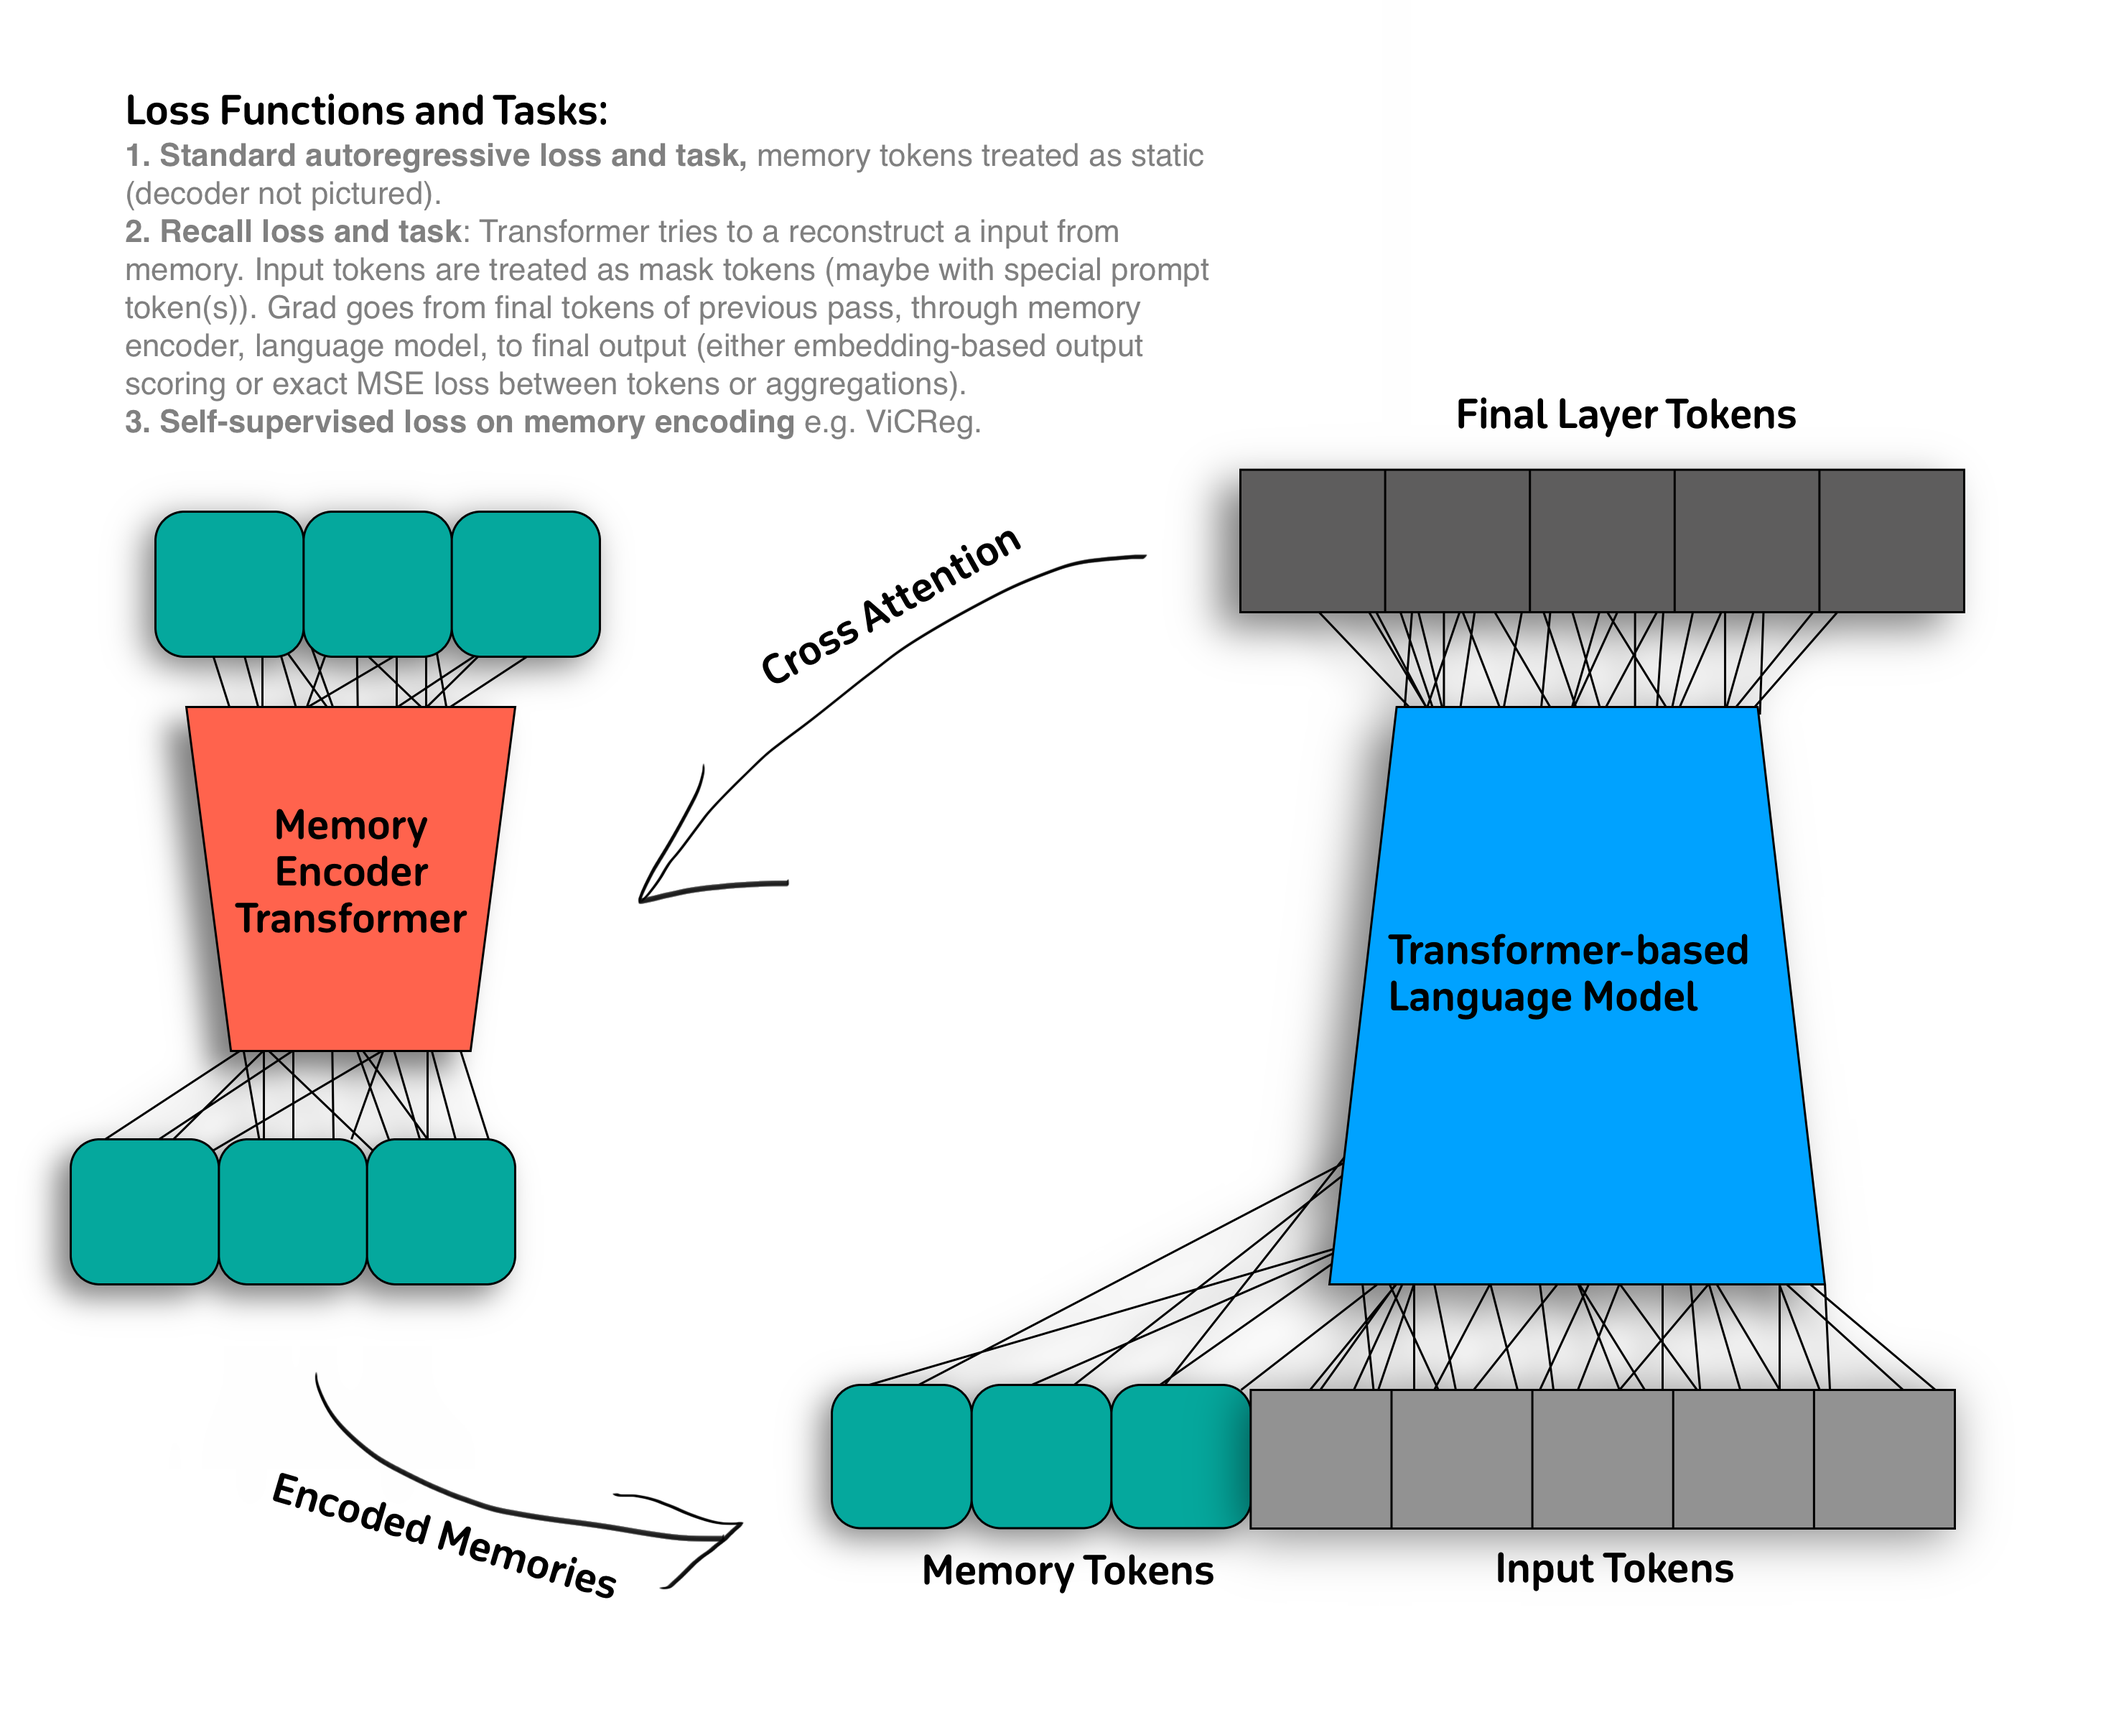
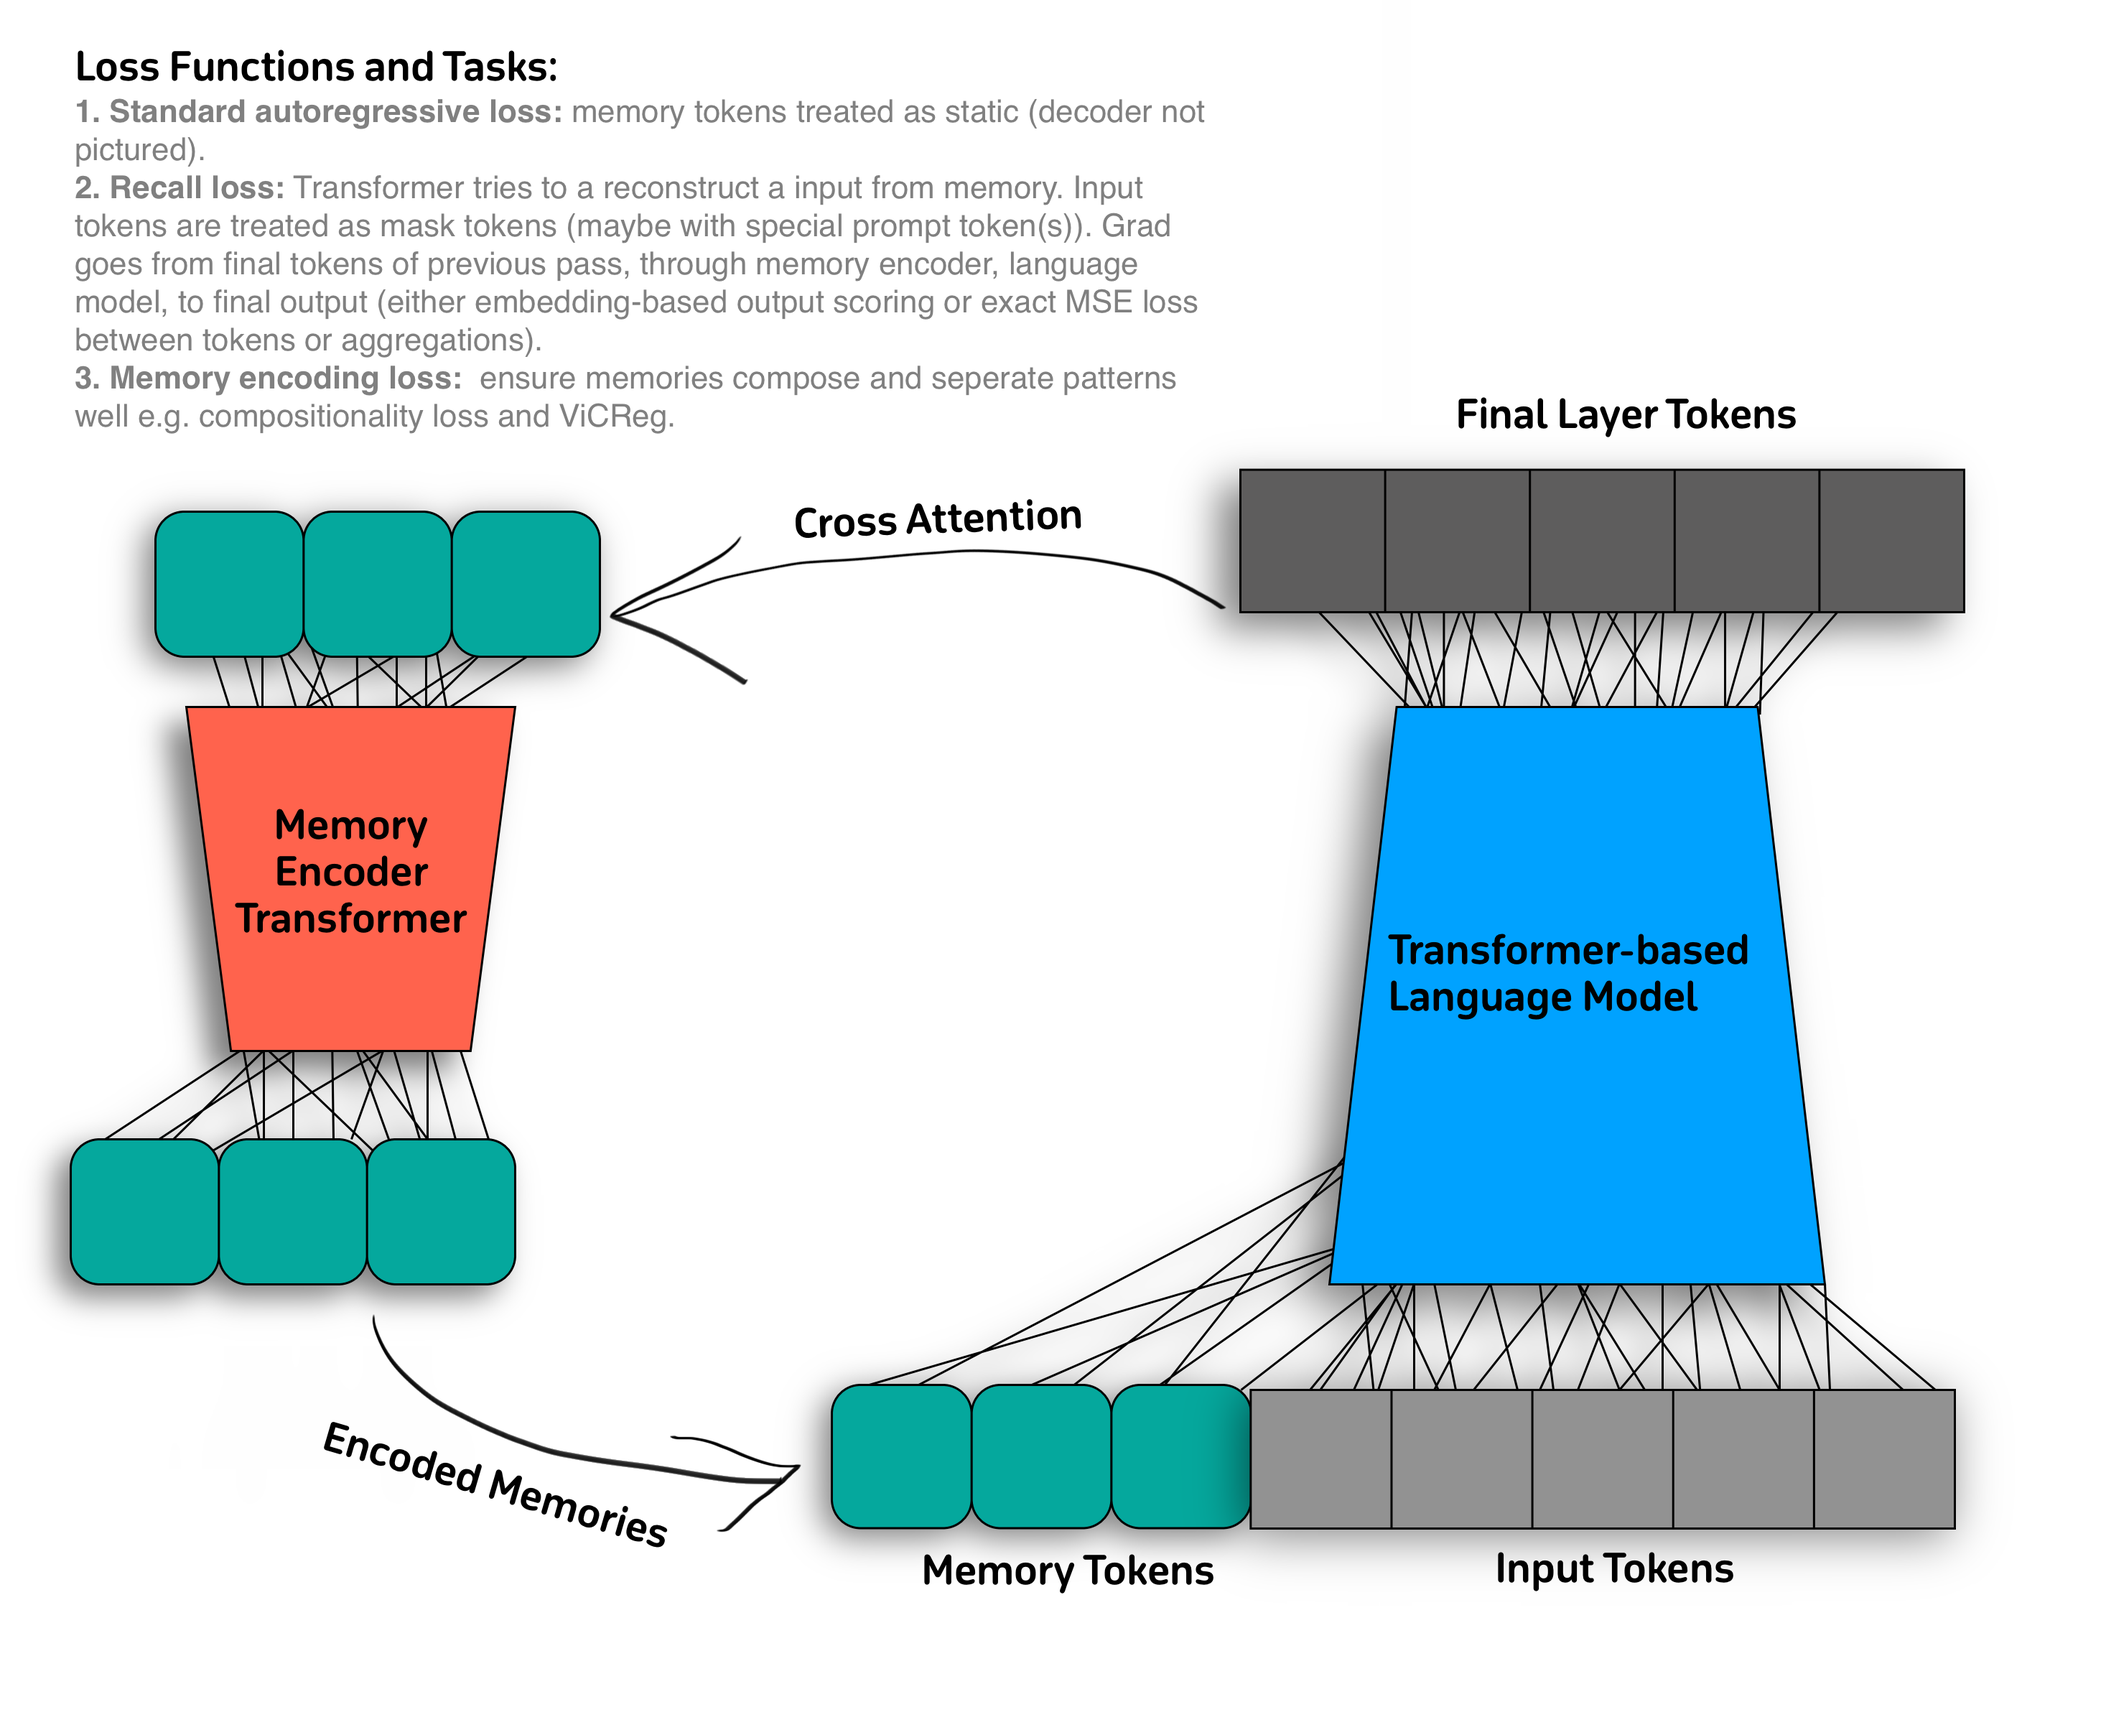
readme update

diff --git a/README.md b/README.md
@@ -5,11 +5,11 @@ This repository will follow a framework like the [recurrent memory transformer](
 
 ![Model Architecture](figures/memory_transformer.png)
 
-Elaborating, an issue with true recurrence (which follows from the loops above), is that it becomes unwieldy with backpropagation-through-time. Hence, this model will use seperate losses that ensure efficient use of memory, while avoiding recurrence. This is done by training the memory and language model seperately.
+Elaborating, an issue with true recurrence (which follows from the loops above), is that it becomes unwieldy with backpropagation-through-time. Hence, this model will use seperate losses that ensure efficient use of memory, while avoiding excessive recurrence. This is done by training the memory and language model seperately, with the language model being trained with no recurrence, while the memory model has simple recurrence that serves to ensure compositionality in memory.
 
 ## The Loss Functions
 The losses, mentioned in the image above, are as follows:
 
-1. A conventional language model loss, e.g. next token prediction. The memory tokens will be just like regular input tokens here. This loss only acts on the language model.
+1. A conventional language model loss, e.g. next token prediction. The memory tokens are just like regular input tokens here. This loss only acts on the language model.
 2. Recall loss, a special task and corresponding loss where the model must use the memory tokens to reproduce the original input. This ensures the model knows how to use the memory tokens. This loss acts on both the language model and the memory transformer.
-3. Pattern separation loss, a loss based on conventional studies of the hippocampus. This loss will be a self-supervised loss, like VICReg, acting on the memory transformer alone.
+3. Memory loss, the loss for the memory architecture. It is based on two losses. The first is a recurrent loss based on ensuring that encodings of large chunks of tokens agree with sequential pieces of the large chunk recurrently i.e. ensuring memories compose. The second is a pattern seperation loss based on conventional studies of the hippocampus. This loss is a self-supervised loss, like VICReg, that ensures that model does not collapse and adequetely seperates memories.
